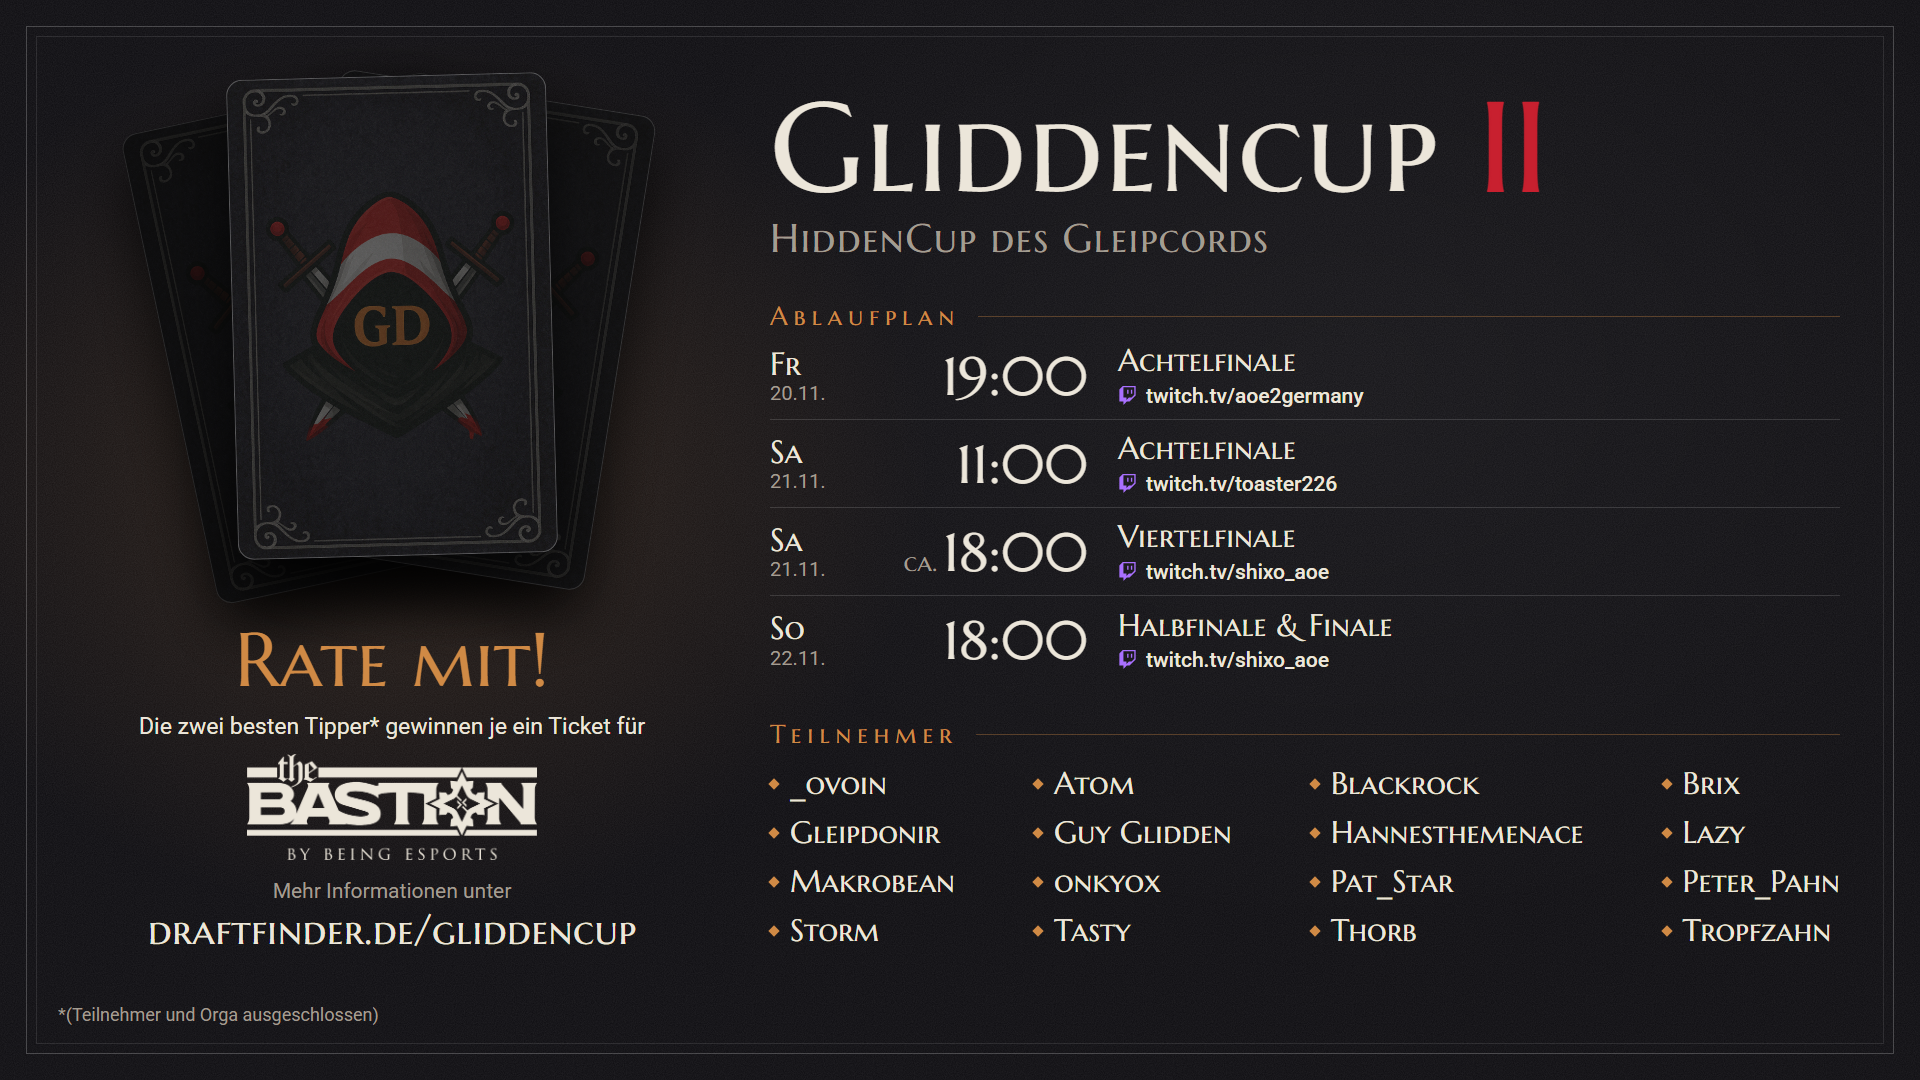
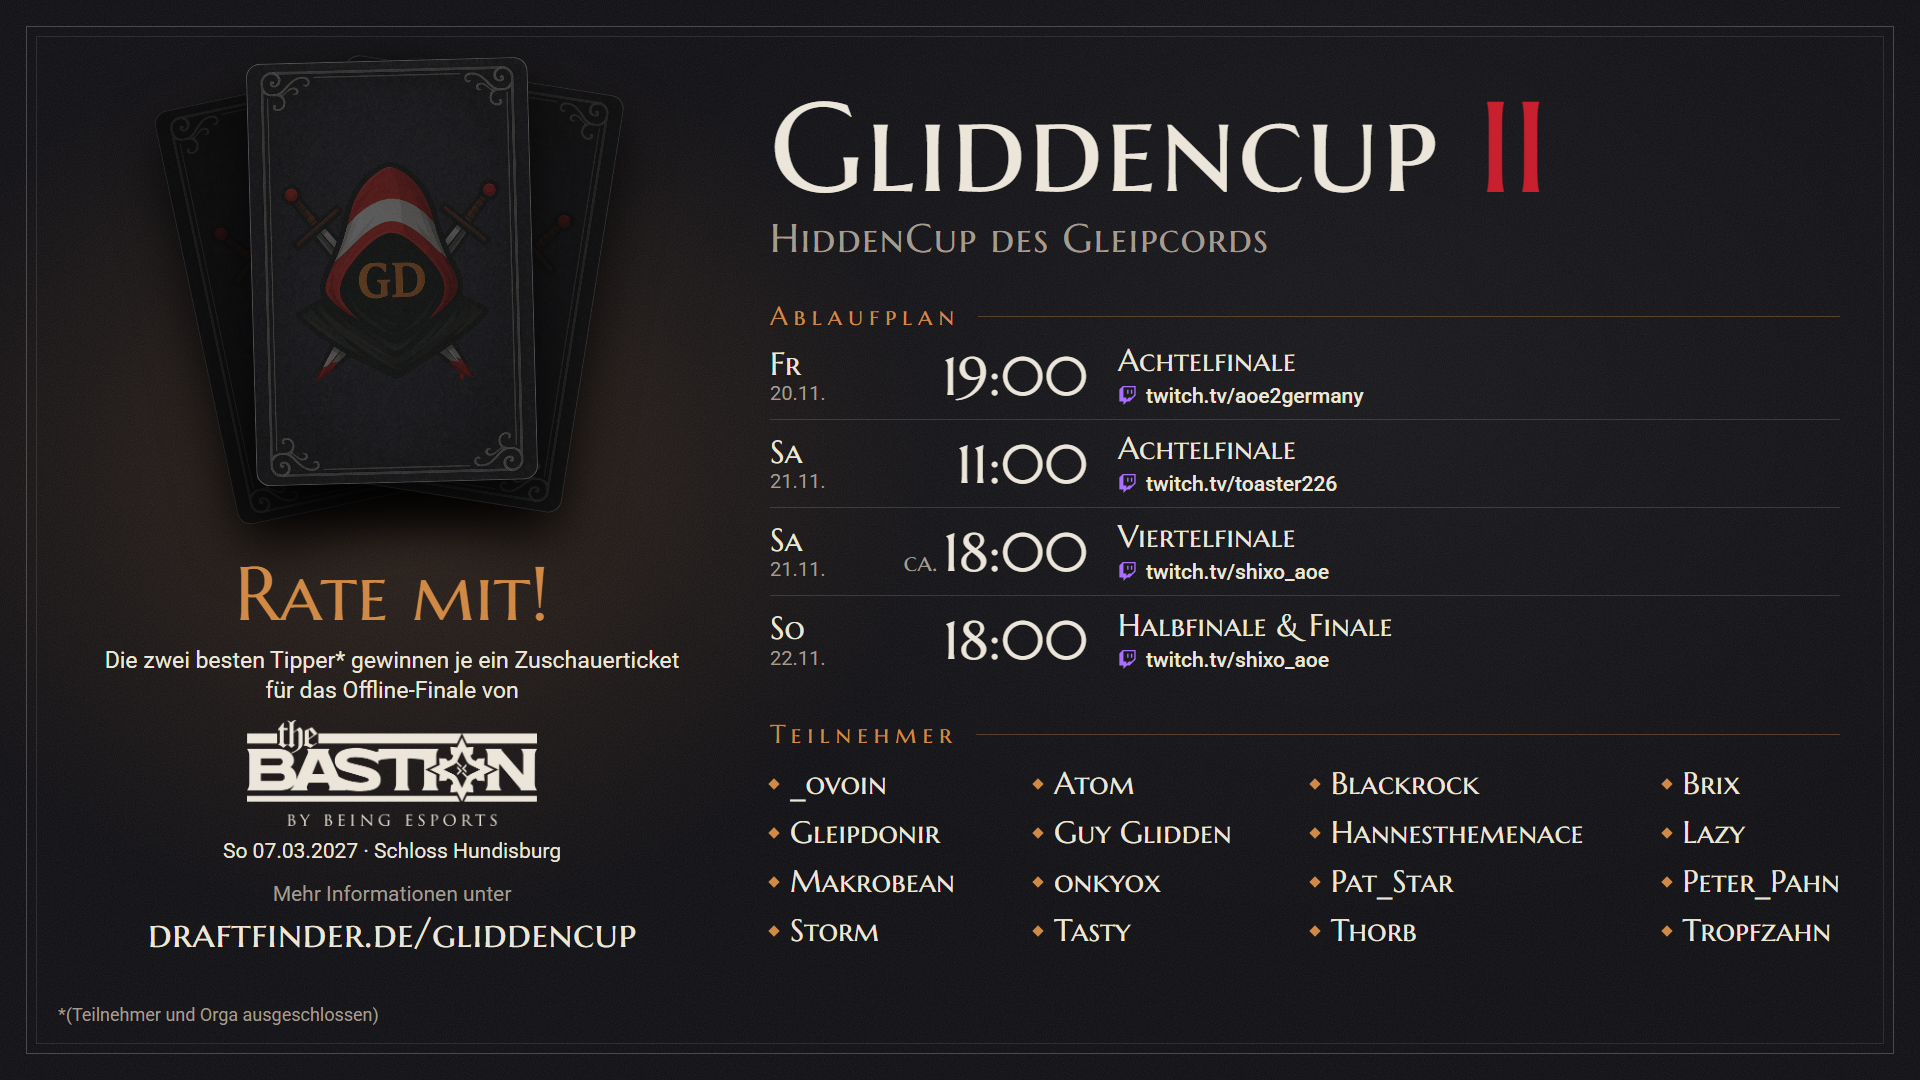
Werbebild: Zuschauerticket für das Offline-Finale
Der Tippspiel-Gewinn ist ein Zuschauerticket für das Offline-Finale von
The Bastion (So 07.03.2027, Schloss Hundisburg), kein Ticket für The
Bastion selbst.

Changed region(s): [[0.0625, 0.0611, 0.3438, 0.8861], [0.2188, 0.3667, 0.25, 0.3972]]

diff --git a/promo/gliddencup-2/index.html b/promo/gliddencup-2/index.html
@@ -43,7 +43,7 @@ body { font-family: Roboto, sans-serif; color: var(--ink); }
 .frame::after { content: ''; position: absolute; inset: 9px; border: 1px solid rgb(255 255 255 / 10%); }
 
 /* ---------- Links: Kartenfächer mit dem Logo ---------- */
-.fan { position: absolute; left: 92px; top: 46px; width: 600px; height: 580px; }
+.fan { position: absolute; left: 92px; top: 34px; width: 600px; height: 580px; transform: scale(0.88); transform-origin: 50% 0; }
 .card {
   position: absolute;
   left: 140px;
@@ -58,14 +58,15 @@ body { font-family: Roboto, sans-serif; color: var(--ink); }
 .card.back2 { transform: translate(70px, 14px) rotate(9deg); filter: brightness(0.7); }
 .card.front { transform: rotate(-1.5deg); filter: brightness(1.18) contrast(1.06); }
 
-.cta { position: absolute; left: 92px; top: 622px; width: 600px; text-align: center; }
+.cta { position: absolute; left: 92px; top: 556px; width: 600px; text-align: center; }
 .cta .rate {
   font-family: 'Marcellus SC', serif;
   font-size: 76px;
   line-height: 1;
   color: var(--accent);
 }
-.cta .prize { margin-top: 14px; font-size: 23px; color: var(--ink); }
+.cta .prize { margin-top: 14px; font-size: 23px; line-height: 1.3; color: var(--ink); }
+.cta .final { margin-top: 12px; font-size: 21px; color: var(--ink); }
 .cta .bastion { display: block; width: 290px; margin: 14px auto 0; }
 .cta .more { margin-top: 18px; font-size: 21px; color: var(--dim); }
 .cta .url {
@@ -166,8 +167,9 @@ h2::after { content: ''; flex: 1; height: 1px; background: rgb(208 138 69 / 35%)
 
   <div class="cta">
     <div class="rate">Rate mit!</div>
-    <p class="prize">Die zwei besten Tipper* gewinnen je ein Ticket für</p>
+    <p class="prize">Die zwei besten Tipper* gewinnen je ein Zuschauerticket<br>für das Offline-Finale von</p>
     <img class="bastion" src="bastion.png" alt="The Bastion">
+    <p class="final">So 07.03.2027 · Schloss Hundisburg</p>
     <div class="more">Mehr Informationen unter</div>
     <div class="url">draftfinder.de/gliddencup</div>
   </div>
